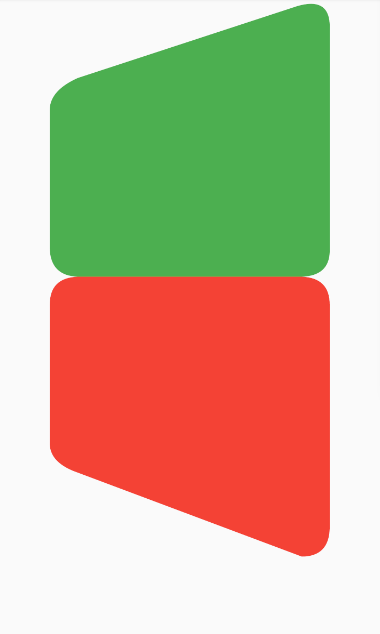
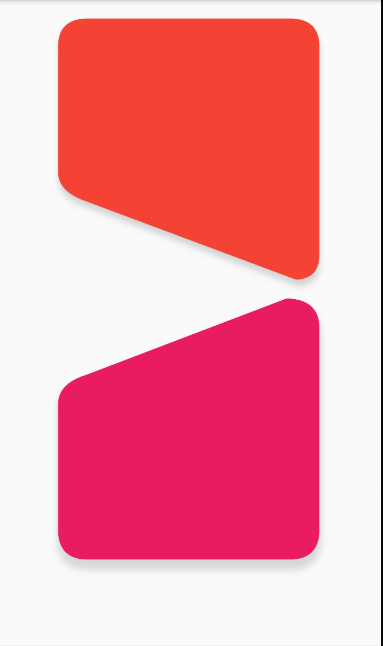
Add image for sample

diff --git a/lib/pages/diagonal_box_page.dart b/lib/pages/diagonal_box_page.dart
@@ -18,21 +18,19 @@ class DiagonalBoxPage extends StatelessWidget {
               child: Container(
                 width: size,
                 height: size,
-                color: Colors.white,
+                color: Colors.red,
               ),
             ),
             SizedBox(height: 20),
             Container(
               child: Center(
-                child: CustomPaint(
-                  painter: DiagonalBoxBottomWithShadow(),
-                  child: ClipPath(
-                    clipper: DiagonalBoxBottomRight(),
-                    child: Container(
-                      width: size,
-                      height: size,
-                      color: Colors.white,
-                    ),
+                child: DiagonalBoxWidget(
+                  shadow: ShadowConfig(elevation: 5.0),
+                  diagonalType: DiagonalType.diagonalRightToBottomLeft,
+                  child: Container(
+                    width: size,
+                    height: size,
+                    color: Colors.pink,
                   ),
                 ),
               ),
